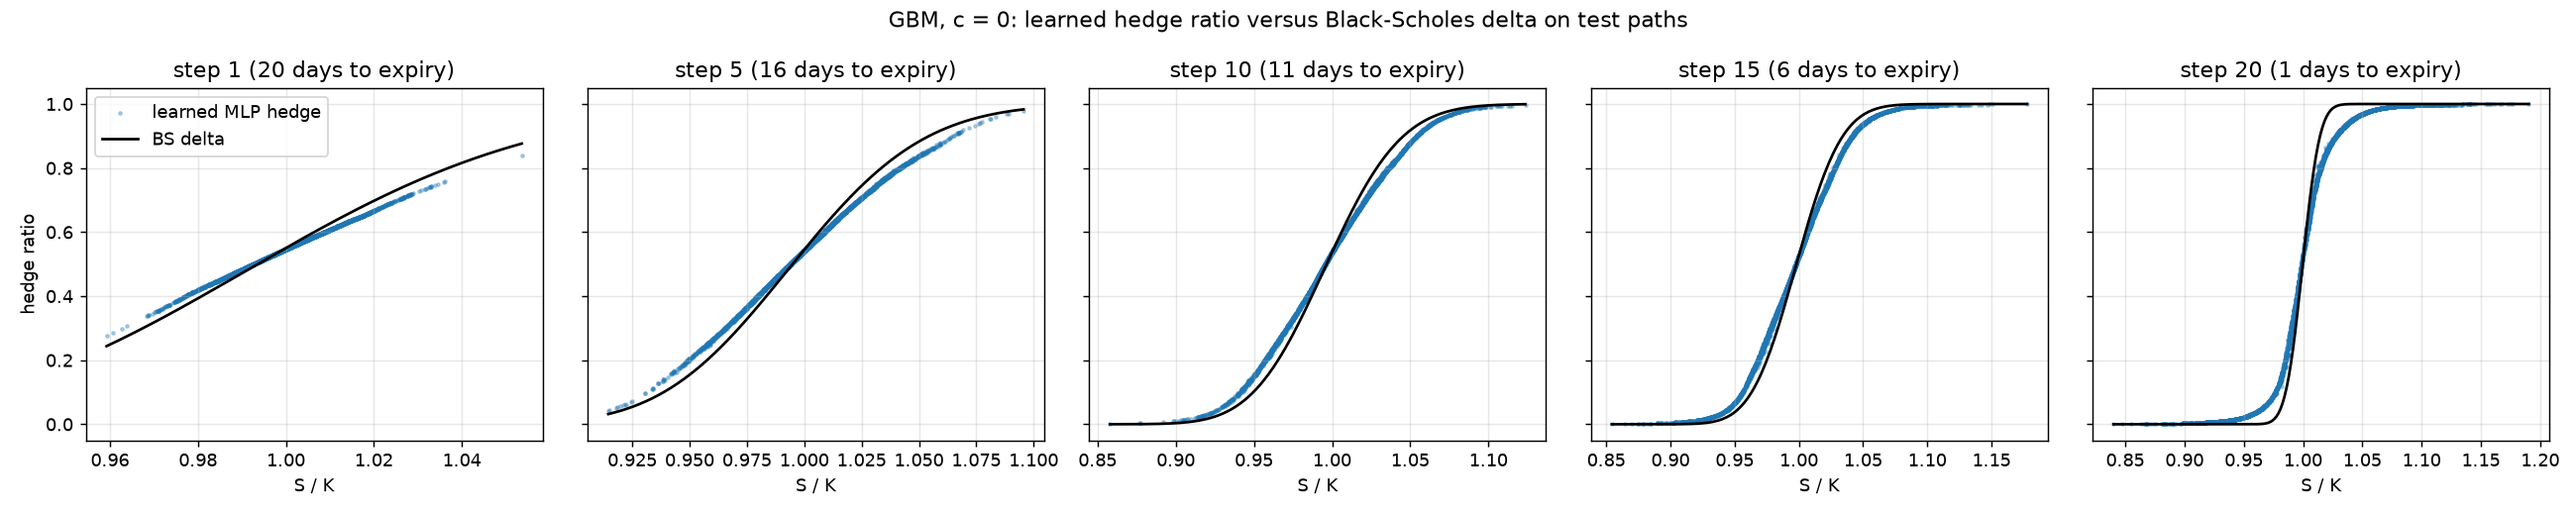
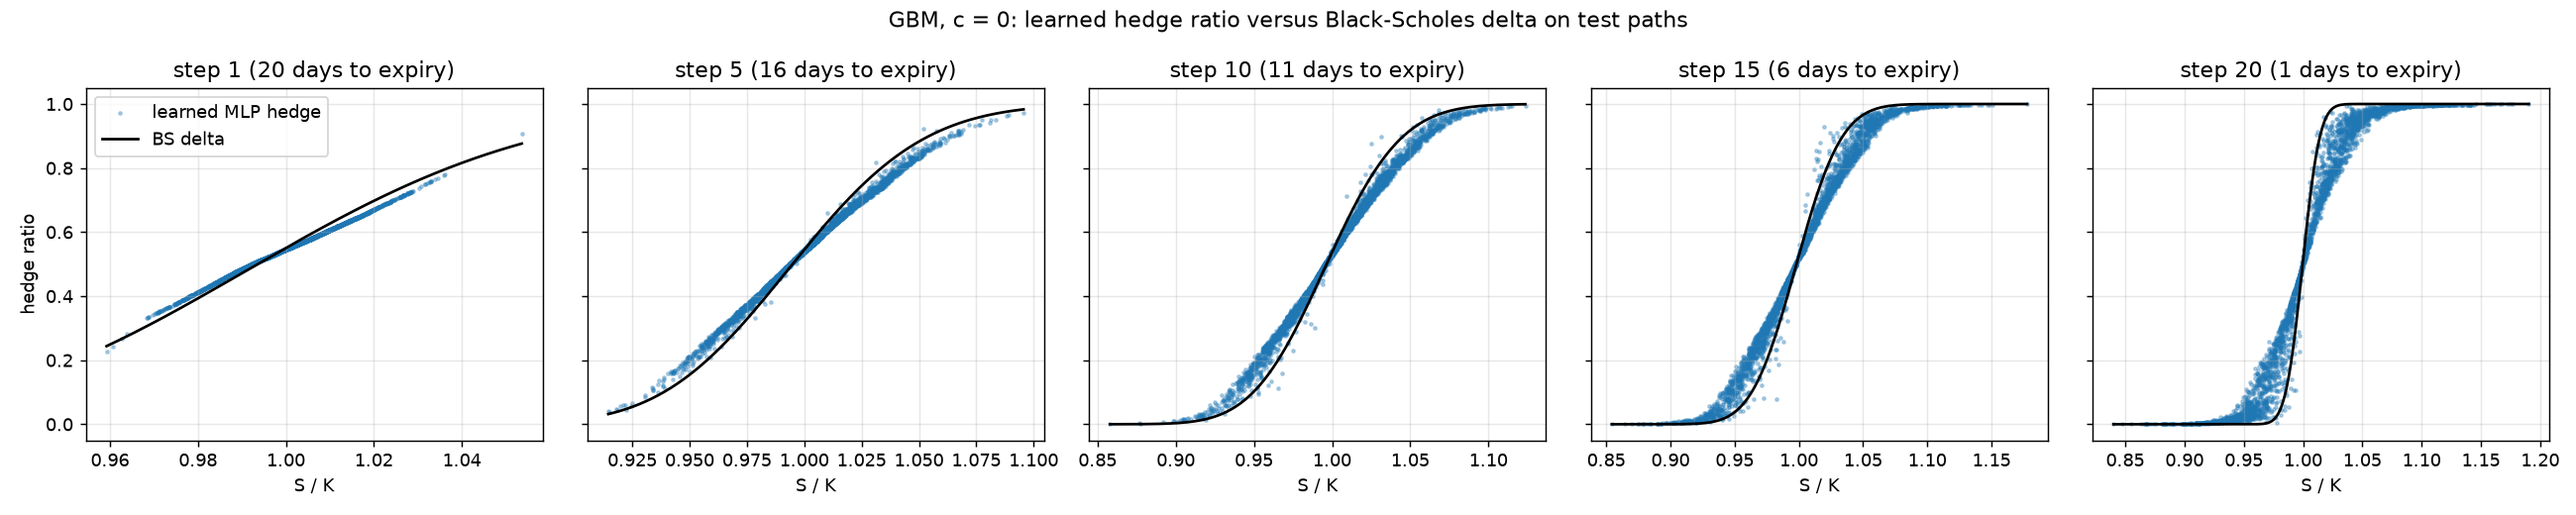
Rerun Checkpoint B with the running P&L input (PASS, MAD 0.0451)

diff --git a/results/validation/gbm_validation.md b/results/validation/gbm_validation.md
@@ -1,42 +1,42 @@
 # Checkpoint B: GBM validation of the MLP policy
 
-Generated 2026-10-02 19:24 UTC by `src/check_gbm_validation.py` from `/Users/suryaansh/projects/deep-hedging-nifty/config/default.yaml`.
+Generated 2026-10-02 19:50 UTC by `src/check_gbm_validation.py` from `/Users/suryaansh/projects/deep-hedging-nifty/config/default.yaml`.
 
 ## Setup
 
 - Simulator: GBM, sigma = 0.18, drift mu = 0.065, r = 0.065, 21 daily steps, S0 = K = 1.
 - Short one ATM call, premium C0 = 0.023485 (BS price at sigma = 0.18). Transaction cost c = 0.
-- MLPPolicy trained with CVaR95 (Rockafellar-Uryasev), 50000 fresh paths per epoch, batch 5000, Adam lr 0.001, early stopping on 20000 fixed validation paths (seed 20001).
-- Best epoch 157 of 183 run, training time 74 s on cpu.
+- MLPPolicy trained with CVaR95 (Rockafellar-Uryasev), 50000 fresh paths per epoch, batch 25000, Adam lr 0.001, early stopping on 20000 fixed validation paths (seed 20001).
+- Best epoch 321 of 347 run, training time 181 s on cpu.
 - Test set: 20000 fresh GBM paths (seed 40001), never used in training or model selection.
 
 ## Hedge ratio versus Black-Scholes delta
 
-Mean absolute difference over all 420000 (path, step) pairs: **0.0306** (target below 0.05).
+Mean absolute difference over all 420000 (path, step) pairs: **0.0451** (target below 0.05).
 
-Median 0.0288, 95th percentile 0.0653, max 0.1244.
+Median 0.0334, 95th percentile 0.1288, max 0.3389.
 
 ### By time to expiry (trading days)
 
 | days_to_expiry | count | mad | mean_learned_minus_delta |
 |---|---|---|---|
-| 15-21 | 140000 | 0.0198 | -0.0029 |
-| 8-14 | 140000 | 0.0331 | 0.0005 |
-| 4-7 | 80000 | 0.0354 | 0.0007 |
-| 2-3 | 40000 | 0.0395 | -0.0026 |
-| 1 | 20000 | 0.0503 | -0.0035 |
+| 15-21 | 140000 | 0.0211 | -0.0037 |
+| 8-14 | 140000 | 0.0449 | -0.0013 |
+| 4-7 | 80000 | 0.0623 | -0.0010 |
+| 2-3 | 40000 | 0.0746 | -0.0032 |
+| 1 | 20000 | 0.0858 | -0.0056 |
 
 ### By moneyness ln(S/K)
 
 | ln_S_over_K | count | mad | mean_learned_minus_delta |
 |---|---|---|---|
-| [-inf, -0.06) | 19302 | 0.0139 | 0.0139 |
-| [-0.06, -0.03) | 49480 | 0.0462 | 0.0462 |
-| [-0.03, -0.01) | 73053 | 0.0414 | 0.0414 |
-| [-0.01, 0.01) | 122888 | 0.0120 | -0.0021 |
-| [0.01, 0.03) | 76320 | 0.0419 | -0.0419 |
-| [0.03, 0.06) | 55386 | 0.0419 | -0.0419 |
-| [0.06, inf) | 23571 | 0.0108 | -0.0108 |
+| [-inf, -0.06) | 19302 | 0.0202 | 0.0201 |
+| [-0.06, -0.03) | 49480 | 0.0735 | 0.0728 |
+| [-0.03, -0.01) | 73053 | 0.0570 | 0.0557 |
+| [-0.01, 0.01) | 122888 | 0.0170 | -0.0043 |
+| [0.01, 0.03) | 76320 | 0.0609 | -0.0598 |
+| [0.03, 0.06) | 55386 | 0.0652 | -0.0648 |
+| [0.06, inf) | 23571 | 0.0170 | -0.0169 |
 
 Plot: `results/validation/gbm_hedge_vs_delta.png`.
 
@@ -44,9 +44,9 @@ Plot: `results/validation/gbm_hedge_vs_delta.png`.
 
 | strategy | mean_pnl | std_pnl | cvar95_loss | mean_pnl_x_premium | std_pnl_x_premium | cvar95_loss_x_premium |
 |---|---|---|---|---|---|---|
-| MLP policy | -0.0000 | 0.0043 | 0.0081 | -0.0017 | 0.1840 | 0.3466 |
+| MLP policy | -0.0000 | 0.0050 | 0.0076 | -0.0020 | 0.2135 | 0.3219 |
 | BS delta | -0.0000 | 0.0039 | 0.0092 | -0.0013 | 0.1643 | 0.3900 |
 
 ## Verdict
 
-**PASS**: mean absolute difference 0.0306 < 0.05.
+**PASS**: mean absolute difference 0.0451 < 0.05.
